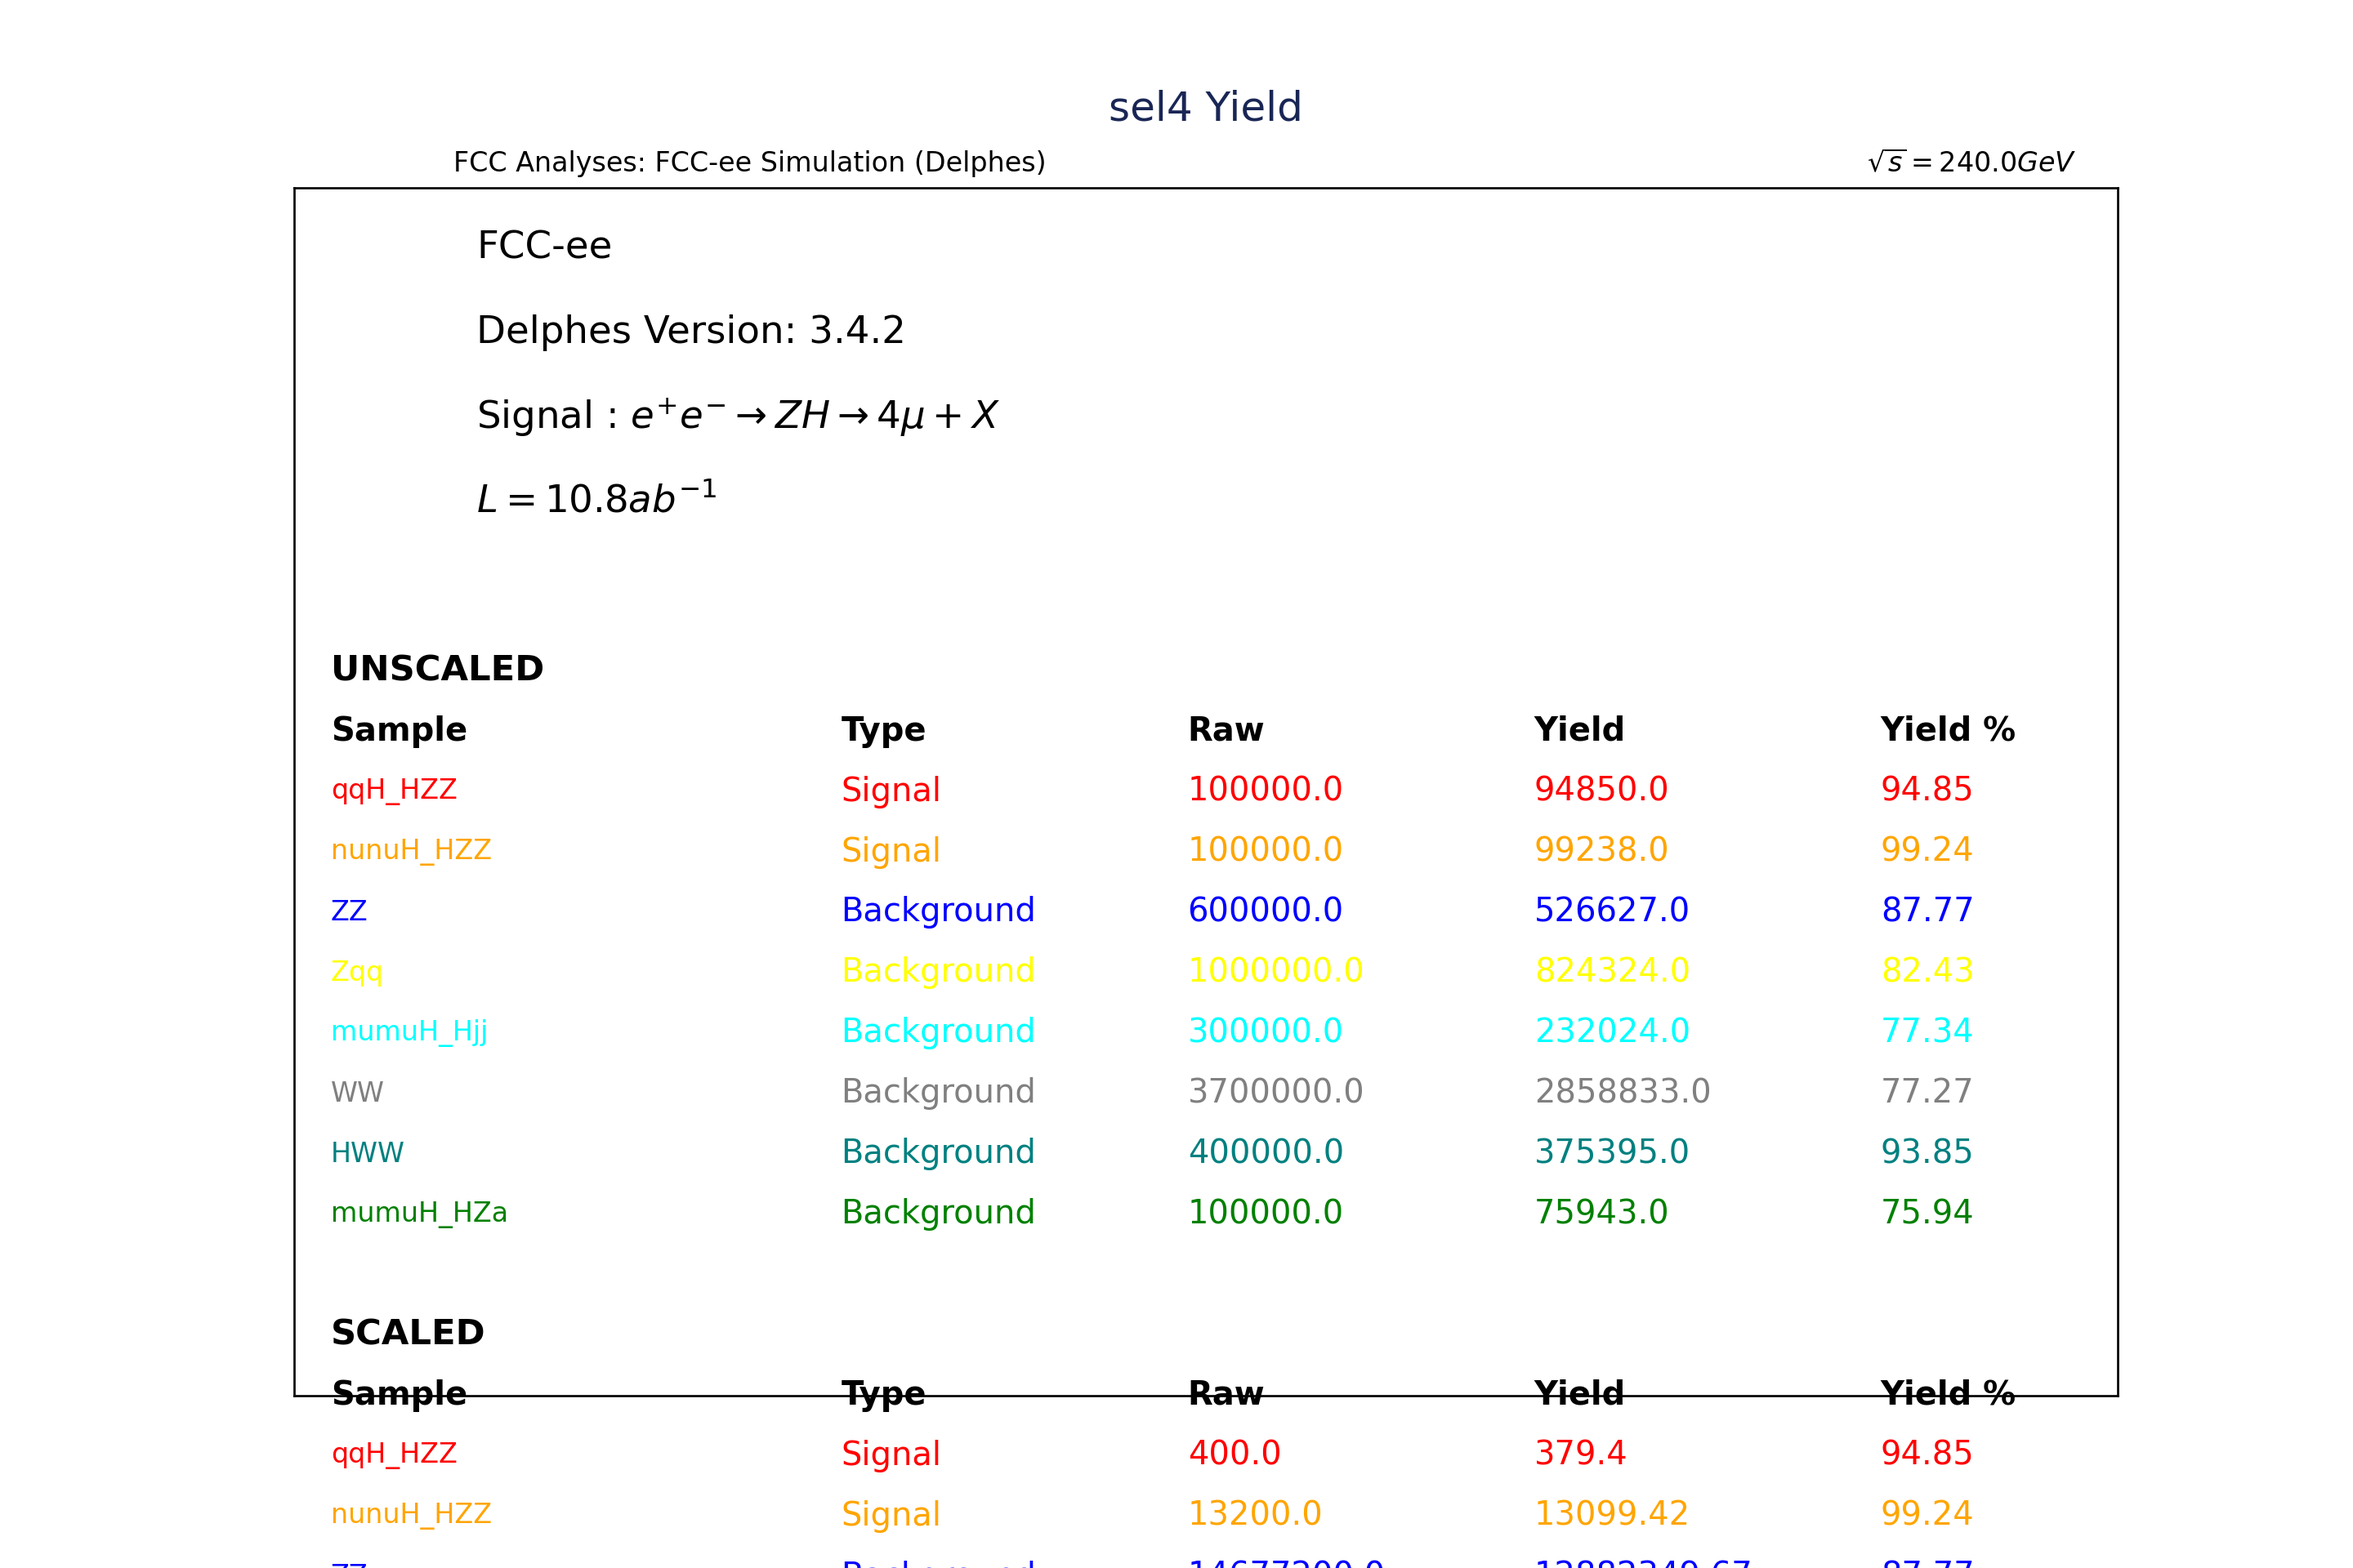
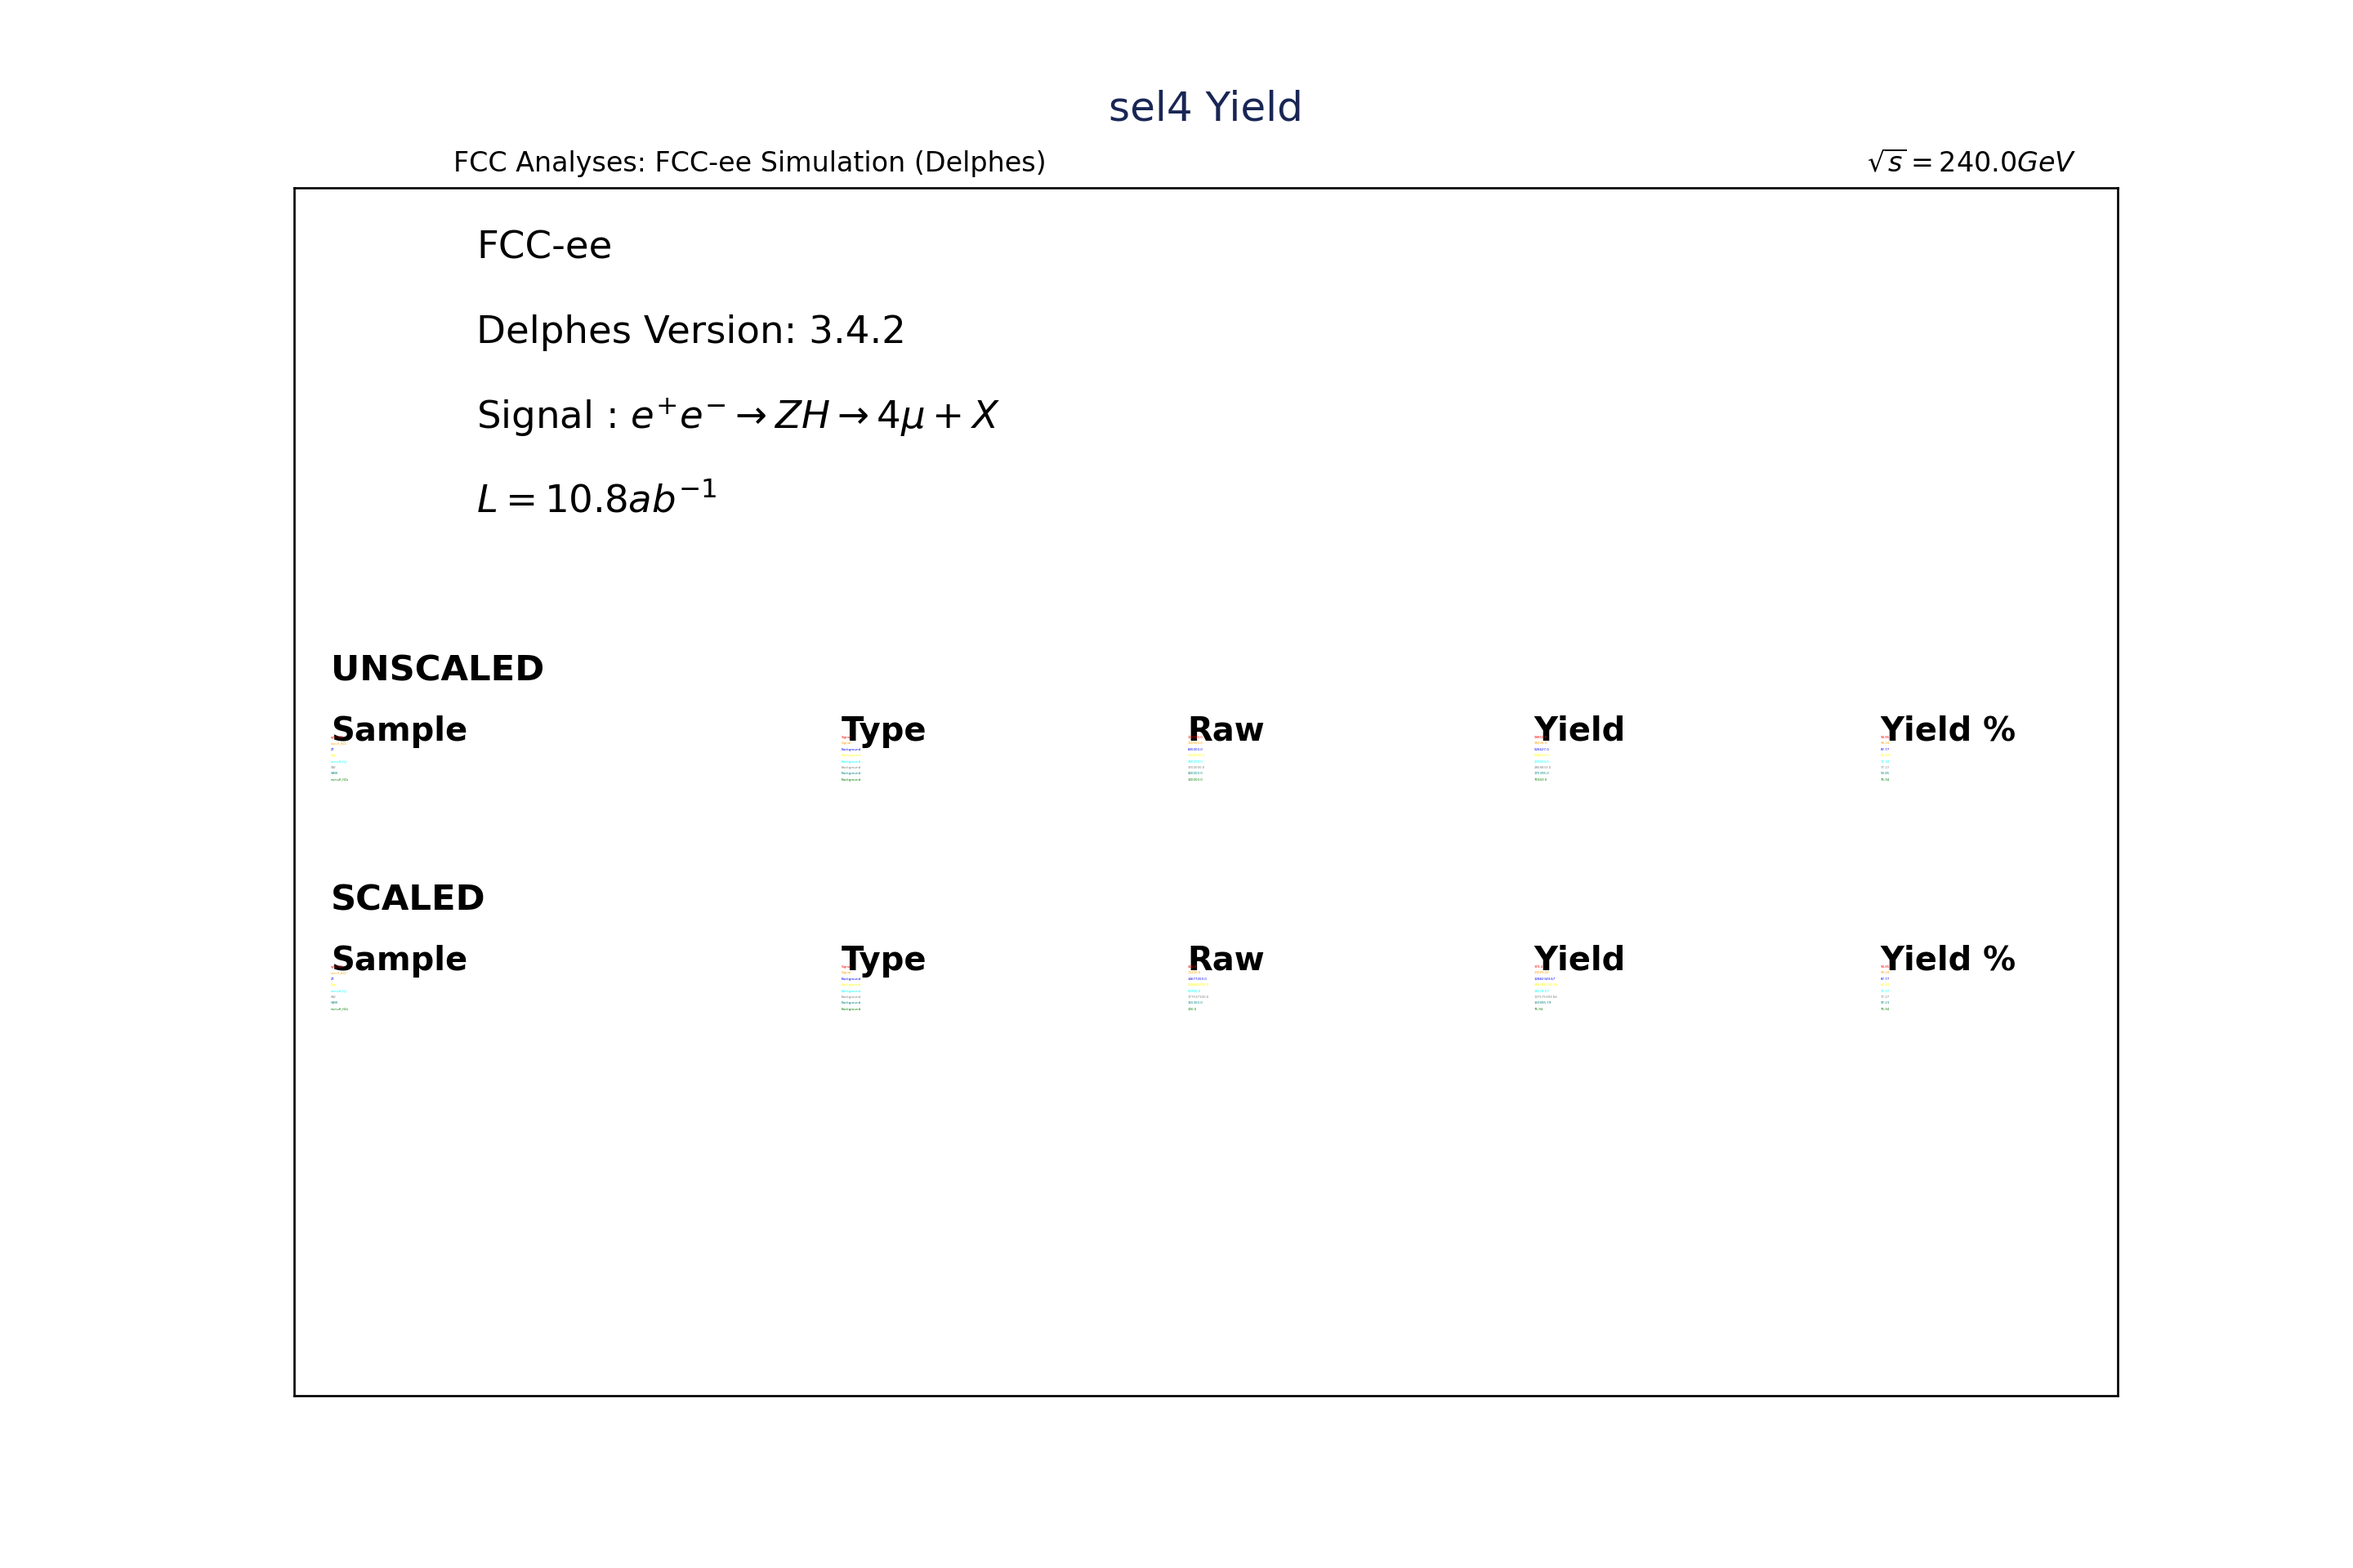
Decreased font size in the yeild plots

diff --git a/examples/FCCee/higgs/4leptons/plotter.py b/examples/FCCee/higgs/4leptons/plotter.py
@@ -83,6 +83,7 @@ def yield_plot(name, title, keys, scaled, unscaled, formats, path, plot_width=8,
     ax.text(0.10, 0.74, '$L = '+str(intLumi/1e6)+' ab^{-1}$', fontsize=14, horizontalalignment='left', verticalalignment='center', transform=ax.transAxes)
 
     level, linespacing = 0.60, 0.05
+    table_scale = 0.1
     for scale,obs in zip(['UNSCALED','SCALED'],[unscaled,scaled]):
         ax.text(0.02, level, scale, weight='bold', fontsize=13, horizontalalignment='left', verticalalignment='center', transform=ax.transAxes)
         level -= linespacing
@@ -98,12 +99,12 @@ def yield_plot(name, title, keys, scaled, unscaled, formats, path, plot_width=8,
             yield_text = str(round(obs[i]['Cutflow'].values()[-1],2))
             raw_text = str(round(obs[i]['Cutflow'].values()[0],2))
             percentage = str(round(obs[i]['Cutflow'].values()[-1]*100/obs[i]['Cutflow'].values()[0],2))
-            level -= linespacing
-            ax.text(0.02, level, list(keys)[i], fontsize=10, color=color,horizontalalignment='left', verticalalignment='center', transform=ax.transAxes)
-            ax.text(0.30, level, Type, color=color,fontsize=12, horizontalalignment='left', verticalalignment='center', transform=ax.transAxes)
-            ax.text(0.49, level, raw_text, color=color, fontsize=12, horizontalalignment='left', verticalalignment='center', transform=ax.transAxes)
-            ax.text(0.68, level, yield_text, color=color, fontsize=12, horizontalalignment='left', verticalalignment='center', transform=ax.transAxes)
-            ax.text(0.87, level, percentage, color=color, fontsize=12, horizontalalignment='left', verticalalignment='center', transform=ax.transAxes)
+            level -= linespacing*table_scale
+            ax.text(0.02, level, list(keys)[i], fontsize=10*table_scale, color=color,horizontalalignment='left', verticalalignment='center', transform=ax.transAxes)
+            ax.text(0.30, level, Type, color=color, fontsize=12*table_scale, horizontalalignment='left', verticalalignment='center', transform=ax.transAxes)
+            ax.text(0.49, level, raw_text, color=color, fontsize=12*table_scale, horizontalalignment='left', verticalalignment='center', transform=ax.transAxes)
+            ax.text(0.68, level, yield_text, color=color, fontsize=12*table_scale, horizontalalignment='left', verticalalignment='center', transform=ax.transAxes)
+            ax.text(0.87, level, percentage, color=color, fontsize=12*table_scale, horizontalalignment='left', verticalalignment='center', transform=ax.transAxes)
         level -= 2*linespacing
 
     ax.set_title(title,pad=25,  fontsize= "15", color="#192655")
